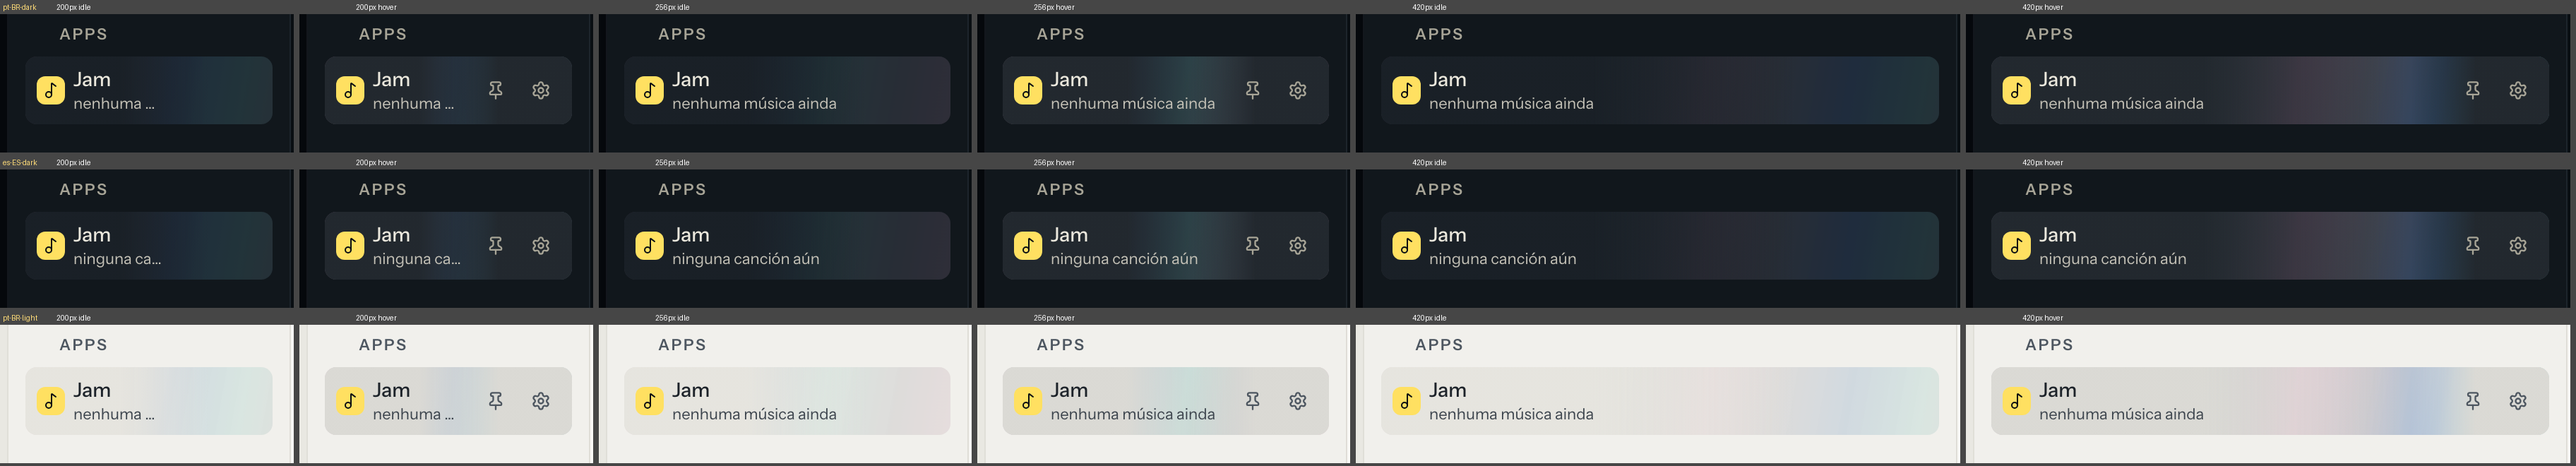
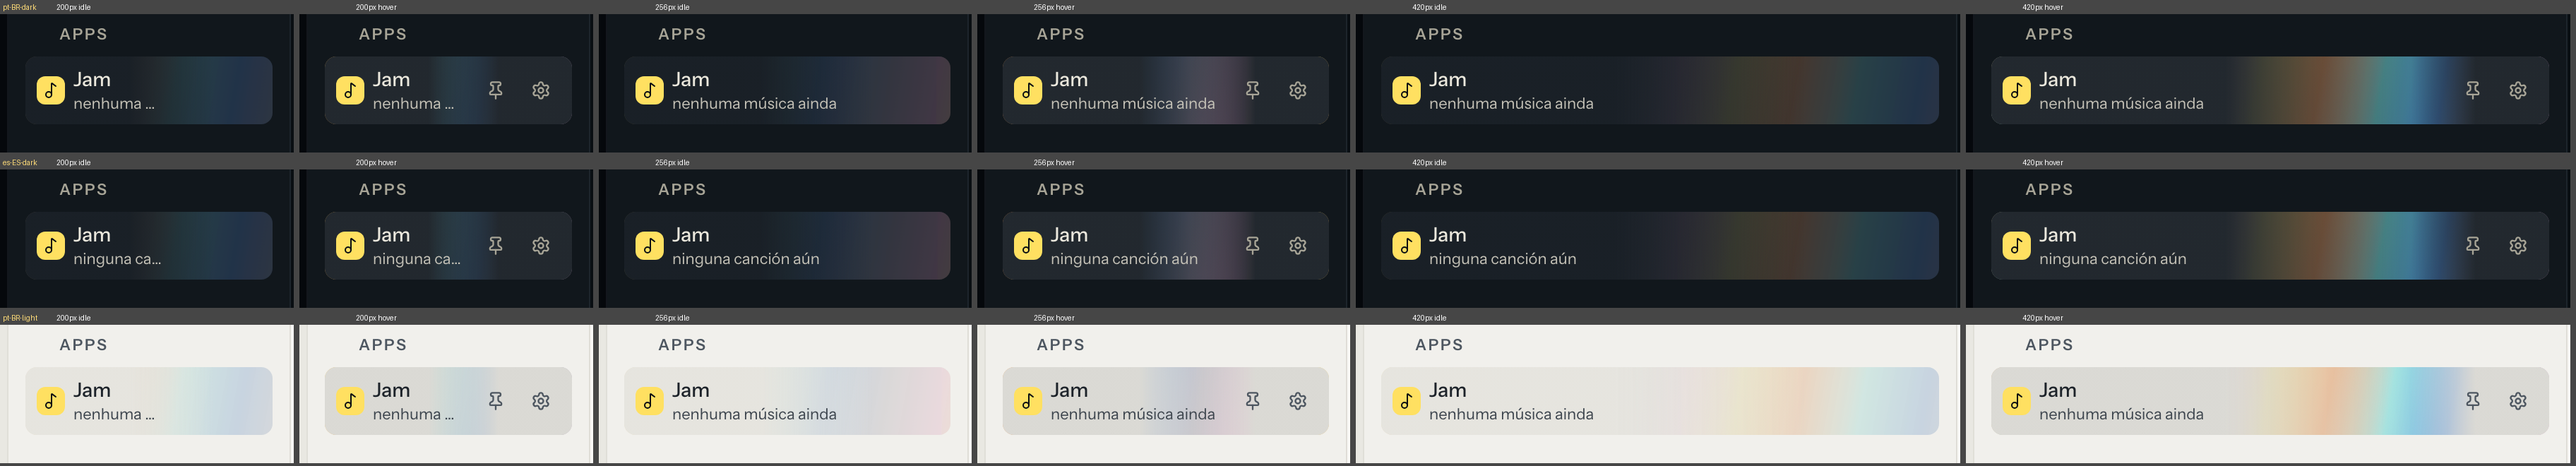
Jam row: a wash you can see from across the sidebar, drifting at rest
The resting row was too timid. The wash now carries the whole Jam palette
(pink, yellow, orange, teal, blue, lilac) at full strength in every state,
including quiet, and drifts at rest (about 28 s a loop). Hover, news, the open
page and a playing song drift progressively faster. The drift is stepped (about
12 compositor frames a second at rest) and transform only; paused off screen
and in a hidden tab (now including the icon); absent under reduced motion,
where the still picture keeps the colour. The plain base under the name and the
count is solid across the left 42% of the row (worst contrast over a full loop,
both themes: name 8.7:1, count 5.3:1).

diff --git a/client/src/components/jam/jam-row.css b/client/src/components/jam/jam-row.css
@@ -5,10 +5,11 @@
  * - Only transform and opacity are animated. The wash is drawn once on a
  *   layer of its own and moved by the compositor, so the sidebar is never
  *   repainted a frame at a time.
- * - Nothing runs until there is a reason: hover or keyboard focus on the row,
- *   the row being the open page, a song playing, or news (a soft sheen, three
- *   times). `--jam-run` is the one switch every animation reads, and an art
- *   that is off screen or in a hidden tab forces it to `paused`.
+ * - The wash always drifts, very slowly (one loop is about half a minute), so
+ *   the row is alive at a glance; it gets faster with attention: hover, news,
+ *   the open page, a song playing. News also plays a soft sheen three times.
+ *   `--jam-run` is the one switch every animation reads, and an art that is off
+ *   screen or in a hidden tab forces it to `paused`.
  * - Every colour is a role token (the instrument fills are identities, the
  *   same in light and dark). The left of the row is washed with its own base
  *   so the name and the count are read on a plain surface in every theme.
@@ -20,9 +21,10 @@
   --jam-base: var(--color-surface-2);
   /* How much colour the wash carries: a bit more in the light themes, where the
      same fill on a pale surface reads weaker. `--jam-mood-o` is the state's own. */
-  --jam-wash: 0.85;
-  --jam-mood-o: 0.35;
-  --jam-run: paused;
+  --jam-wash: 0.92;
+  --jam-mood-o: 0.9;
+  --jam-run: running;
+  /* Multiplies the loop's length: 1 is the slow drift at rest, less is faster. */
   --jam-speed: 1;
   position: absolute;
   inset: 0;
@@ -51,9 +53,9 @@
 
 [data-jam-card]:hover .jam-row-art,
 [data-jam-card]:focus-within .jam-row-art {
-  --jam-run: running;
   --jam-base: color-mix(in oklab, var(--color-text) 5%, var(--color-surface-2));
-  --jam-mood-o: 0.75;
+  --jam-mood-o: 1;
+  --jam-speed: 0.5;
 }
 
 [data-jam-card]:has(:focus-visible) .jam-row-art::after {
@@ -63,14 +65,13 @@
 /* The Jam is the open page: a warm tint, a bar on the left edge, a slow drift. */
 .jam-row-art[data-selected="true"] {
   --jam-base: color-mix(in oklab, var(--color-inst-guitar) 11%, var(--color-surface-2));
-  --jam-run: running;
-  --jam-speed: 1.7;
-  --jam-mood-o: 0.8;
+  --jam-speed: 0.85;
+  --jam-mood-o: 0.95;
 }
 
 [data-jam-card]:hover .jam-row-art[data-selected="true"],
 [data-jam-card]:focus-within .jam-row-art[data-selected="true"] {
-  --jam-speed: 1;
+  --jam-speed: 0.5;
   /* The open page keeps its warm tint while the pointer or focus is on it. */
   --jam-base: color-mix(
     in oklab,
@@ -89,15 +90,26 @@
   background: var(--color-inst-guitar);
 }
 
-/* News is louder than quiet, and a song playing is the loudest. */
+/* News is livelier than hover, and a song playing is the liveliest. */
 .jam-row-art[data-mood="news"] {
-  --jam-mood-o: 0.85;
+  --jam-mood-o: 1;
+  --jam-speed: 0.4;
 }
 
 .jam-row-art[data-mood="playing"] {
-  --jam-run: running;
-  --jam-speed: 0.6;
   --jam-mood-o: 1;
+  --jam-speed: 0.22;
+}
+
+/* The pointer on a row never slows what the state already made livelier. */
+[data-jam-card]:hover .jam-row-art[data-mood="news"],
+[data-jam-card]:focus-within .jam-row-art[data-mood="news"] {
+  --jam-speed: 0.4;
+}
+
+[data-jam-card]:hover .jam-row-art[data-mood="playing"],
+[data-jam-card]:focus-within .jam-row-art[data-mood="playing"] {
+  --jam-speed: 0.22;
 }
 
 .jam-row-art[data-mood="empty"] {
@@ -118,18 +130,22 @@
      stretching it into one band. */
   width: 768px;
   opacity: calc(var(--jam-wash) * var(--jam-mood-o));
-  /* Cool colours carry the wash; the warm ones live in the icon and the tint. */
+  /* The whole band: pink, yellow, orange, teal, blue, lilac, and round again. */
   background-image: linear-gradient(
     100deg,
-    color-mix(in oklab, var(--color-inst-vocals) 40%, transparent),
-    color-mix(in oklab, var(--color-inst-other) 40%, transparent),
-    color-mix(in oklab, var(--color-inst-bass) 44%, transparent),
-    color-mix(in oklab, var(--color-inst-keys) 38%, transparent),
-    color-mix(in oklab, var(--color-inst-other) 40%, transparent),
-    color-mix(in oklab, var(--color-inst-vocals) 40%, transparent)
+    color-mix(in oklab, var(--color-inst-vocals) 62%, transparent),
+    color-mix(in oklab, var(--color-inst-guitar) 70%, transparent),
+    color-mix(in oklab, var(--color-inst-drums) 68%, transparent),
+    color-mix(in oklab, var(--color-inst-keys) 58%, transparent),
+    color-mix(in oklab, var(--color-inst-bass) 64%, transparent),
+    color-mix(in oklab, var(--color-inst-other) 60%, transparent),
+    color-mix(in oklab, var(--color-inst-vocals) 62%, transparent)
   );
   background-size: 256px 100%;
-  animation: jam-row-aurora calc(14s * var(--jam-speed)) linear infinite;
+  /* Stepped, not continuous: at this speed a step is under a pixel, the eye cannot tell, and the
+     compositor only has to produce a frame when the wash actually moved (about 12 a second at rest,
+     not one per display refresh). The faster states step proportionally more often. */
+  animation: jam-row-aurora calc(28s * var(--jam-speed)) steps(336) infinite;
   animation-play-state: var(--jam-run);
 }
 
@@ -146,7 +162,7 @@
 .jam-art-scrim {
   position: absolute;
   inset: 0;
-  background: linear-gradient(90deg, var(--jam-base) 0%, var(--jam-base) 38%, transparent 74%);
+  background: linear-gradient(90deg, var(--jam-base) 0%, var(--jam-base) 42%, transparent 76%);
 }
 
 /* The pin and the settings cog come in on hover and focus, and stay while the
@@ -156,7 +172,7 @@
 .jam-row-art[data-selected="true"] .jam-art-scrim {
   background:
     linear-gradient(270deg, var(--jam-base) 0, var(--jam-base) 52px, transparent 98px),
-    linear-gradient(90deg, var(--jam-base) 0%, var(--jam-base) 38%, transparent 74%);
+    linear-gradient(90deg, var(--jam-base) 0%, var(--jam-base) 42%, transparent 76%);
 }
 
 /* ---- news: one soft band crosses the row, three times ---------------------- */
@@ -229,13 +245,20 @@
   border-radius: 1px;
   background: currentColor;
   transform-origin: bottom;
-  animation: jam-row-eq-icon 0.9s var(--ease-standard) infinite;
+  /* Stepped like the wash: a few poses a second, not a frame per refresh. */
+  animation: jam-row-eq-icon 0.9s steps(4) infinite;
 }
 .jam-icon-eq > span:nth-child(2) {
   animation-delay: -0.3s;
 }
 .jam-icon-eq > span:nth-child(3) {
   animation-delay: -0.6s;
+}
+
+/* An off-screen or hidden row pauses its icon too (the art next to it knows). */
+[data-jam-card]:has([data-alive="false"]) .jam-icon-eq > span,
+[data-jam-card]:has([data-alive="false"]) .jam-icon-note {
+  animation-play-state: paused;
 }
 
 .jam-row-icon[data-mood="playing"] .jam-icon-note {

diff --git a/client/src/components/jam/jam-row-css.test.ts b/client/src/components/jam/jam-row-css.test.ts
@@ -1,0 +1,62 @@
+// @vitest-environment node
+import { readFileSync } from "node:fs";
+import { describe, expect, it } from "vitest";
+
+/**
+ * What the row's stylesheet promises, read as text: jsdom has no animation
+ * engine, so these are the rules that cannot drift unnoticed.
+ */
+const css = readFileSync(new URL("./jam-row.css", import.meta.url), "utf8");
+
+function block(selector: string): string {
+  const start = css.indexOf(selector);
+  expect(start, selector).toBeGreaterThanOrEqual(0);
+  return css.slice(start, css.indexOf("}", start));
+}
+
+describe("jam-row.css", () => {
+  it("the wash drifts at rest: running unless the row is off screen or the tab is hidden", () => {
+    expect(block(".jam-row-art {")).toContain("--jam-run: running;");
+    expect(block('.jam-row-art[data-alive="false"]')).toContain("--jam-run: paused !important;");
+  });
+
+  it("the wash carries the whole palette at rest", () => {
+    const aurora = block(".jam-aurora {");
+    for (const inst of ["vocals", "guitar", "drums", "keys", "bass", "other"]) {
+      expect(aurora).toContain(`--color-inst-${inst}`);
+    }
+  });
+
+  it("only transform and opacity are ever animated", () => {
+    for (const keyframes of css.matchAll(/@keyframes [\w-]+ \{([\s\S]*?)\n\}/g)) {
+      const props = [...keyframes[1]!.matchAll(/^\s{4}([a-z-]+):/gm)].map((match) => match[1]);
+      for (const prop of props) {
+        expect(["transform", "opacity"], `${prop} in ${keyframes[0].split("{")[0]}`).toContain(prop);
+      }
+    }
+  });
+
+  it("is stepped, so a slow drift does not ask the compositor for a frame per refresh", () => {
+    expect(block(".jam-aurora {")).toMatch(/steps\(\d+\)/);
+  });
+
+  it("the livelier states drift faster than rest: hover, news, playing", () => {
+    const speed = (selector: string) => Number(/--jam-speed: ([\d.]+);/.exec(block(selector))?.[1]);
+    const rest = speed(".jam-row-art {");
+    expect(speed("[data-jam-card]:hover .jam-row-art,")).toBeLessThan(rest);
+    expect(speed('.jam-row-art[data-mood="news"] {')).toBeLessThan(speed("[data-jam-card]:hover .jam-row-art,"));
+    expect(speed('.jam-row-art[data-mood="playing"] {')).toBeLessThan(speed('.jam-row-art[data-mood="news"] {'));
+  });
+
+  it("reduced motion removes the wash, the sheen, the hop and the equaliser", () => {
+    const reduced = css.slice(css.indexOf("@media (prefers-reduced-motion: reduce)"));
+    for (const selector of [".jam-aurora", ".jam-art-sheen", ".jam-icon-eq > span", ".jam-icon-note"]) {
+      expect(reduced).toContain(selector);
+    }
+    expect(reduced).toContain("animation: none !important;");
+  });
+
+  it("keeps the name and the count on a plain base: the scrim is solid across the left of the row", () => {
+    expect(block(".jam-art-scrim {")).toMatch(/var\(--jam-base\) 4\d%/);
+  });
+});

diff --git a/client/src/components/jam/jam-row-art.tsx b/client/src/components/jam/jam-row-art.tsx
@@ -7,10 +7,10 @@ import "./jam-row.css";
 /**
  * The art behind the sidebar's Jam row, and the icon in front of it.
  *
- * The row is the door to a music room: a soft wash in the colours of the
- * instruments (the same language as the song covers), which drifts while
- * somebody is on the row or the Jam is open, and faster while a song is
- * playing (the icon turns into an equaliser). Which face it wears is `jamRowMood`
+ * The row is the door to a music room: a wash in the colours of the instruments
+ * (the same language as the song covers) that always drifts, very slowly, and
+ * drifts faster the more is going on: hover, news, the open page, a song playing
+ * (the icon turns into an equaliser). Which face it wears is `jamRowMood`
  * (`lib/jam-row-state.ts`); hover and focus are CSS. Everything here is
  * `aria-hidden`: the row's name, count and "música nova" are real text.
  */

diff --git a/docs/JAM_WEB.md b/docs/JAM_WEB.md
@@ -13,7 +13,7 @@ React in them). The engine itself is `client/src/lib/jam/` and is not touched.
 | Piece | Where |
 |---|---|
 | Add a Jam | The Texto "+" menu, a category's "+" menu and, in the mixed list, an "Adicionar Jam" row beside "Criar categoria". Once per server, only for MANAGE_CHANNELS, only while `jam_channels` is on. One click, no name prompt: the channel is called `jam` (`handleCreateJam` in `App.tsx`) |
-| The row | `ChannelRow` with a `jam` prop: the jam icon (a rounded square in the guitar colour, `JamRowIcon`), "N músicas" under the name, the unread bar and a screen-reader "música nova", on a card with a drifting wash in the instruments' colours (`components/jam/jam-row-art.tsx`, `jam-row.css`). Its face is one function of signals the client already holds (`jamRowMood` in `lib/jam-row-state.ts`: playing, news, empty, quiet; `lib/jam-now-playing.ts` follows the shared engine's transport, so no frame and no request). Idle is still; hover, focus and the open page drift the wash; news plays a sheen three times; playing turns the icon into an equaliser. Transform and opacity only, paused off screen and in a hidden tab, none of it under reduced motion. The classic list draws it in an "Apps" section; the mixed list draws it as an ordinary row |
+| The row | `ChannelRow` with a `jam` prop: the jam icon (a rounded square in the guitar colour, `JamRowIcon`), "N músicas" under the name, the unread bar and a screen-reader "música nova", on a card with a drifting wash in the instruments' colours (`components/jam/jam-row-art.tsx`, `jam-row.css`). Its face is one function of signals the client already holds (`jamRowMood` in `lib/jam-row-state.ts`: playing, news, empty, quiet; `lib/jam-now-playing.ts` follows the shared engine's transport, so no frame and no request). The wash carries the whole palette and always drifts, about 28 s a loop at rest and faster with attention (hover, then news, the open page, a song playing); news also plays a sheen three times and playing turns the icon into an equaliser. Transform and opacity only, stepped (about 12 compositor frames a second at rest), paused off screen and in a hidden tab, none of it under reduced motion, where the still picture keeps the colour. The classic list draws it in an "Apps" section; the mixed list draws it as an ordinary row |
 | The pane | `JamPane`: the wall, the open song beside it (over it on a phone) and the studio over everything. `App` mounts it for `type === "jam"` and never mounts the chat there |
 | Realtime | The seven jam frames are in `chatServerMessageSchema` and reach `lib/jam-store.ts` through `lib/jam-frames.ts`; `lib/jam-state.ts` applies each one by id, idempotently (the writer's own socket gets its own frame) |
 
